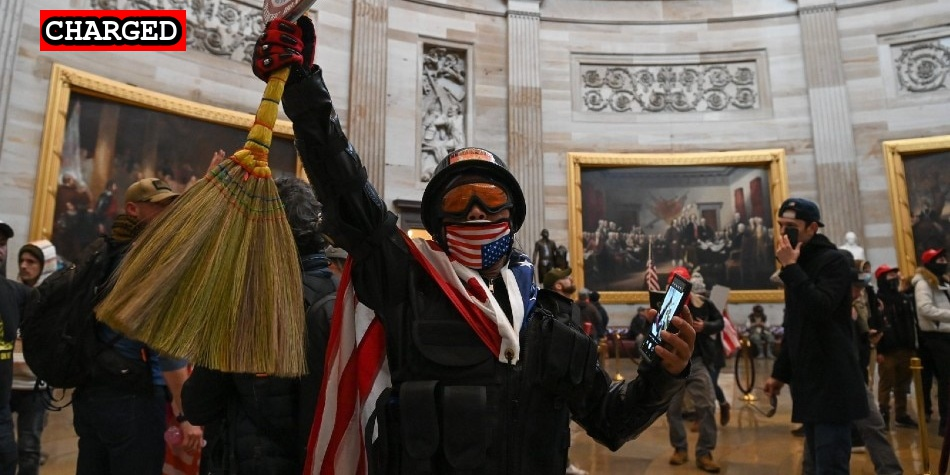
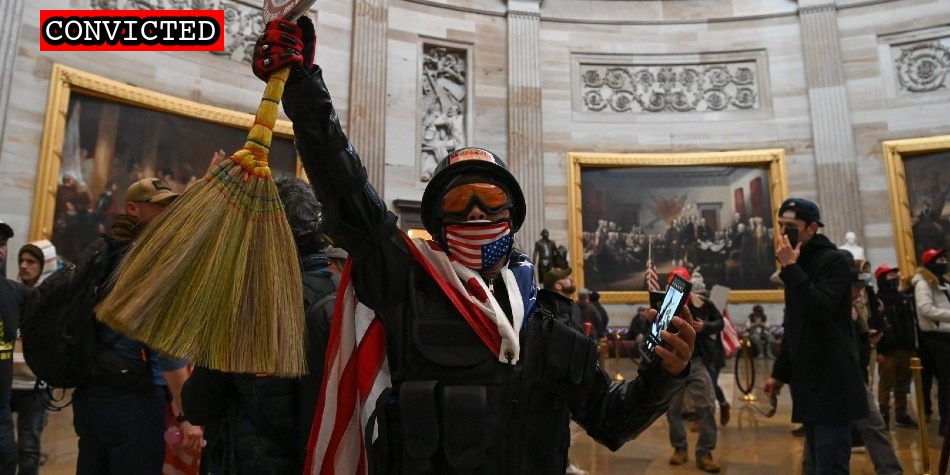
Latest import

Changed region(s): [[0.0305, 0.0, 0.2442, 0.1179]]

diff --git a/docs/suspects/henry-tarrio.html b/docs/suspects/henry-tarrio.html
@@ -1,0 +1,4 @@
+---
+layout: redirect
+slug: enrique-tarrio
+---

diff --git a/docs/_suspects/ethan-nordean.md b/docs/_suspects/ethan-nordean.md
@@ -33,16 +33,15 @@ layout: suspect
 published: true
 caseNumber: 1:21-cr-175
 videos:
-  - title: 21CR175_00001495_PARTIAL.mp4 (0:03:00)
-    url: https://propublica-data-j6cases-videos.s3.us-east-1.amazonaws.com/8a8f0be0ce2b013960702cde48001122.mp4
+- title: 21CR175_00001495_PARTIAL.mp4 (0:03:00)
+  url: https://propublica-data-j6cases-videos.s3.us-east-1.amazonaws.com/8a8f0be0ce2b013960702cde48001122.mp4
 charges:
 sentence:
 ---
-
 - [News Report](https://nytimes.com/live/2021/02/03/us/biden-administration#federal-officials-arrested-another-leader-of-the-proud-boys-ethan-nordean-in-the-capitol-riot-investigation)
 - [Statement of Facts](https://www.justice.gov/opa/page/file/1364196/download)
 - [DOJ Press Release](https://www.justice.gov/usao-dc/pr/member-proud-boys-charged-obstructing-official-proceeding-other-charges-related-jan-6)
-- [Indictment](https://www.justice.gov/usao-dc/case-multi-defendant/file/1415116/download)
+- [Indictment](https://www.justice.gov/usao-dc/case-multi-defendant/file/1480996/download)
 - [Government Response to Alleged Violation of Due Process](/filings/nordean-government-response.pdf)
 - [Government Opposition to Release](https://extremism.gwu.edu/sites/g/files/zaxdzs2191/f/Ethan%20Nordean%20Government%20Opposition%20to%20Defendants%20Motion%20to%20Lift%20Stay%20on%20Release%20Order.pdf)
 - [Motion to Revoke Pretrial Release](https://extremism.gwu.edu/sites/g/files/zaxdzs2191/f/Ethan%20Nordean%20Govt%20Motion%20to%20Revoke%20Pretrial%20Release.pdf)

diff --git a/docs/_suspects/dominic-pezzola.md b/docs/_suspects/dominic-pezzola.md
@@ -36,13 +36,12 @@ videos:
 charges:
 sentence:
 ---
-
 - [News Report](https://www.vice.com/en/article/epdmva/a-proud-boy-in-disguise-helped-lead-the-insurrection-at-the-capitol)
 - [VIDEO](https://twitter.com/BGOnTheScene/status/1346904244008456193)
 - [Statement of Facts](https://www.justice.gov/opa/page/file/1355186/download)
 - [DOJ Press Release](https://www.justice.gov/usao-dc/pr/rochester-new-york-man-arrested-and-charged-destroying-property-and-obstruction)
 - [Complaint](https://www.justice.gov/opa/page/file/1355181/download)
-- [Indictment](https://www.justice.gov/usao-dc/case-multi-defendant/file/1412796/download)
+- [Indictment](https://www.justice.gov/usao-dc/case-multi-defendant/file/1481021/download)
 - [Defense Motion for Modification of Bond](https://extremism.gwu.edu/sites/g/files/zaxdzs2191/f/Dominic%20Pezzola%20Defense%20Motion%20for%20Modification%20of%20Bond%20to%20Place%20Defendant%20on%20Conditional%20Release%20Pending%20Trial.pdf)
 - [Spaz is a Former Marine](https://www.vice.com/en/article/v7mpaj/the-proud-boy-who-smashed-a-us-capitol-window-is-a-former-marine)
 - [Government's Opposition to Modifying Conditions of Release](https://extremism.gwu.edu/sites/g/files/zaxdzs2191/f/Dominic%20Pezzola%20Government%E2%80%99s%20Opposition%20to%20Defendant%E2%80%99s%20Motion%20for%20Modification%20of%20Bond%20to%20Place%20the%20Defendant%20on%20Conditional%20Release%20Pending%20Trial.pdf)

diff --git a/docs/_suspects/kene-lazo.md b/docs/_suspects/kene-lazo.md
@@ -4,15 +4,15 @@ lastName: Lazo
 hashtag: Walistambo
 aka:
 residence: Virginia
-status: Charged
+status: Convicted
 date: 2021-05-28
 charged: 2021-05-28
 indicted:
-convicted:
+convicted: 2022-03-08
 sentenced:
 dismissed:
 deceased:
-plea_hearing:
+plea_hearing: 2022-03-08
 sentencing:
 age:
 occupation:
@@ -34,9 +34,13 @@ published: true
 caseNumber: 1:21-cr-425
 videos:
 charges:
+- code: 18 USC § 5104(e)(2)(G)
+  title: Parading, demonstrating or picketing in a Capitol building
+  url: https://www.law.cornell.edu/uscode/text/40/5104
+  felony: false
 sentence:
 ---
-
 - [News Report](https://news.abs-cbn.com/news/05/29/21/walis-tambo-man-arrested-virginia-capitol-riot)
-- [Statement of Facts](https://www.justice.gov/usao-dc/case-multi-defendant/file/1399516/download)
+- [Statement of Facts](https://www.justice.gov/usao-dc/case-multi-defendant/file/1481041/download)
 - [Information](https://www.justice.gov/usao-dc/case-multi-defendant/file/1410491/download)
+- [Plea Agreement](https://www.justice.gov/usao-dc/case-multi-defendant/file/1481036/download)

diff --git a/docs/_suspects/uliyahu-haya.md b/docs/_suspects/uliyahu-haya.md
@@ -1,0 +1,42 @@
+---
+name: Uliyahu Haya
+lastName: Haya
+hashtag:
+aka: Le Mon Williams, Lemon Raetheon Williams
+residence: Maryland
+status: Indicted
+date: 2022-01-26
+charged: 2022-01-26
+indicted: 2022-01-26
+convicted:
+sentenced:
+dismissed:
+deceased:
+plea_hearing:
+sentencing:
+age:
+occupation:
+affiliations:
+jurisdiction: Federal
+image: /images/preview/uliyahu-haya.jpg
+suspect: uliyahu-haya.jpg
+booking:
+courtroom:
+courthouse:
+raid:
+perpwalk:
+quote:
+title: Uliyahu Haya charged on January 26, 2022
+description: Click for latest case details. Suspects innocent until proven guilty.
+author: seditiontrack
+layout: suspect
+published: false
+caseNumber:
+videos:
+charges:
+sentence:
+---
+
+- [News Report]()
+- [Statement of Facts](https://extremism.gwu.edu/sites/g/files/zaxdzs2191/f/Uliyahu%20Hayah%20Criminal%20Complaint%20and%20Statement%20of%20Facts.pdf)
+- [Indictment](https://extremism.gwu.edu/sites/g/files/zaxdzs2191/f/Uliyahu%20Haya%20Superseding%20Indictment.pdf)

diff --git a/docs/_suspects/paul-seymour.md b/docs/_suspects/paul-seymour.md
@@ -1,0 +1,41 @@
+---
+name: Paul Seymour
+lastName: Seymour
+hashtag:
+aka:
+residence:
+status: Charged
+date: 2020-12-03
+charged: 2020-12-03
+indicted:
+convicted:
+sentenced:
+dismissed:
+deceased:
+plea_hearing:
+sentencing:
+age:
+occupation:
+affiliations:
+jurisdiction: Federal
+image: /images/preview/paul-seymour.jpg
+suspect: paul-seymour.jpg
+booking:
+courtroom:
+courthouse:
+raid:
+perpwalk:
+quote:
+title: Paul Seymour charged on December 3rd, 2020
+description: Click for latest case details. Suspects innocent until proven guilty.
+author: seditiontrack
+layout: suspect
+published: false
+caseNumber: 1:21-mj-006
+videos:
+charges:
+sentence:
+---
+- [News Report]()
+- [Complaint](https://www.justice.gov/usao-dc/case-multi-defendant/file/1481151/download)
+- [Statement of Facts](https://www.justice.gov/usao-dc/case-multi-defendant/file/1481156/download)

diff --git a/docs/_suspects/joseph-biggs.md b/docs/_suspects/joseph-biggs.md
@@ -39,4 +39,6 @@ sentence:
 - [News Report](https://www.thedailybeast.com/joseph-biggs-proud-boys-leader-arrested-for-storming-us-capitol)
 - [Statement of Facts](https://www.justice.gov/opa/page/file/1357251/download)
 - [Court Appearance (VIDEO)](https://www.youtube.com/watch?v=G9hkJRbSptI)
-- [Indictment](https://www.justice.gov/usao-dc/case-multi-defendant/file/1377586/download)
+- [Indictment](https://www.justice.gov/usao-dc/case-multi-defendant/file/1481001/download)
+- [Motion to Revoke Pretrial Release](https://extremism.gwu.edu/sites/g/files/zaxdzs2191/f/Joseph%20Biggs%20Opposition%20to%20Motion%20to%20Revoke%20Pretrial%20Release.pdf)
+- [Detention Order](https://extremism.gwu.edu/sites/g/files/zaxdzs2191/f/Joseph%20Randall%20Biggs%20Detention%20Order.pdf)

diff --git a/docs/_suspects/john-cameron.md b/docs/_suspects/john-cameron.md
@@ -31,11 +31,12 @@ description: Click for latest case details. Suspects innocent until proven guilt
 author: seditiontrack
 layout: suspect
 published: true
-caseNumber:
+caseNumber: 1:21-mj-006
 videos:
 charges:
 sentence:
 ---
 - [News Report](https://www.thedailybeast.com/jan-6-rioters-james-wayne-brooks-john-cameron-charged-for-part-in-capitol-insurrection)
-- [Complaint](https://extremism.gwu.edu/sites/g/files/zaxdzs2191/f/John%20Cameron%20Criminal%20Complaint.pdf)
+- [Complaint](https://www.justice.gov/usao-dc/case-multi-defendant/file/1481121/download)
 - [Information](https://extremism.gwu.edu/sites/g/files/zaxdzs2191/f/John%20Cameron%20Information.pdf)
+- [Statement of Facts](https://www.justice.gov/usao-dc/case-multi-defendant/file/1481126/download)

diff --git a/docs/_suspects/charles-donohoe.md b/docs/_suspects/charles-donohoe.md
@@ -43,6 +43,6 @@ charges:
 sentence:
 ---
 - [News Report](https://greensboro.com/news/local/crime-and-courts/winston-salem-proud-boys-leader-charged-in-jan-6-capitol-riot-charles-donohoe-was-arrested/article_ab06b989-7bcf-5ce7-a060-d530e7949112.html)
-- [Indictment](https://www.justice.gov/usao-dc/case-multi-defendant/file/1377586/download)
+- [Indictment](https://www.justice.gov/usao-dc/case-multi-defendant/file/1481016/download)
 - [Detention Memo](https://extremism.gwu.edu/sites/g/files/zaxdzs2191/f/Charles%20Donohoe%20Government%20Memorandum%20in%20Support%20of%20Pre-trial%20Detention.pdf)
 - [Sentencing Memo](https://extremism.gwu.edu/sites/g/files/zaxdzs2191/f/Charles%20Donohoe%20Government%20Memorandum%20in%20Support%20of%20Pre-trial%20Detention.pdf)

diff --git a/docs/_suspects/richard-harris.md b/docs/_suspects/richard-harris.md
@@ -43,3 +43,4 @@ sentence:
 - [Government's Opposition to Modifying Conditions of Release](https://extremism.gwu.edu/sites/g/files/zaxdzs2191/f/Richard%20Harris%20Governments%20Memo%20in%20Opposition%20to%20Defendants%20Motion%20for%20Bond%20Review.pdf)
 - [Defendant's Reply to Government's Opposition to Modifying Conditions of Release](https://extremism.gwu.edu/sites/g/files/zaxdzs2191/f/Richard%20Harris%20Defendants%20Motion%20for%20Bond%20Review.pdf)
 - [Sentencing Memo](https://extremism.gwu.edu/sites/g/files/zaxdzs2191/f/Richard%20Harris%20Defendants%20Motion%20for%20Bond%20Review.pdf)
+- [Detention Hearing Transcript](https://extremism.gwu.edu/sites/g/files/zaxdzs2191/f/Richard%20Harris%20Pretrial%20Detention%20Hearing%20Transcript%20Excerpt.pdf)

diff --git a/docs/_suspects/james-elliott.md b/docs/_suspects/james-elliott.md
@@ -31,11 +31,11 @@ description: Click for latest case details. Suspects innocent until proven guilt
 author: seditiontrack
 layout: suspect
 published: true
-caseNumber:
+caseNumber: 1:21-mj-006
 videos:
 charges:
 sentence:
 ---
 - [News Report](https://chicago.suntimes.com/crime/2021/12/21/22848391/aurora-man-accused-assaulting-officer-flagpole-capitol-riot-faces-five-felonies)
-- [Indictment](https://extremism.gwu.edu/sites/g/files/zaxdzs2191/f/James%20Robert%20Elliott%20Indictment.pdf)
+- [Indictment](https://www.justice.gov/usao-dc/case-multi-defendant/file/1481116/download)
 - [DOJ Press Release](https://www.justice.gov/usao-dc/pr/illinois-man-arrested-assault-law-enforcement-during-jan-6-capitol-breach)

diff --git a/docs/_suspects/james-brooks.md b/docs/_suspects/james-brooks.md
@@ -31,11 +31,11 @@ description: Click for latest case details. Suspects innocent until proven guilt
 author: seditiontrack
 layout: suspect
 published: true
-caseNumber:
+caseNumber: 1:22-mj-000
 videos:
 charges:
 sentence:
 ---
 - [News Report](https://www.thedailybeast.com/jan-6-rioters-james-wayne-brooks-john-cameron-charged-for-part-in-capitol-insurrection)
-- [Statement of Facts](https://extremism.gwu.edu/sites/g/files/zaxdzs2191/f/James%20Wayne%20Brooks%20Statement%20of%20Facts.pdf)
+- [Statement of Facts](https://www.justice.gov/usao-dc/case-multi-defendant/file/1481136/download)
 - [Information](https://extremism.gwu.edu/sites/g/files/zaxdzs2191/f/James%20Wayne%20Brooks%20Information.pdf)
